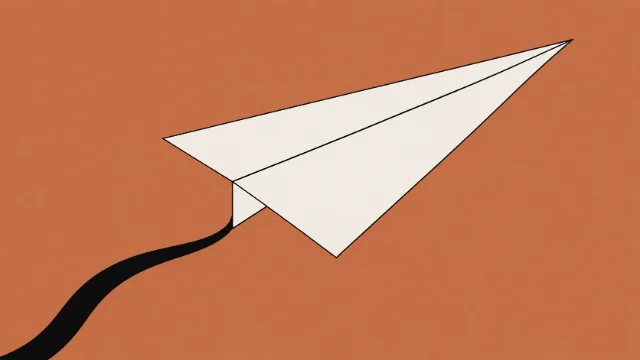
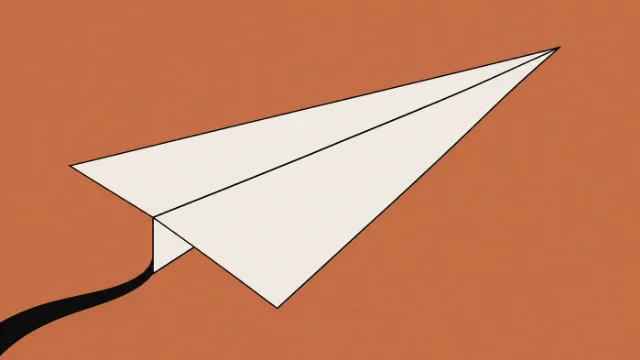
The paper dart is cropped closer, from the original rather than the card
The framing the owner sent back for card 04, recovered from the 1672x941
source the same way 03's was in #156.

He sent a 536x301 PNG. It correlates against the shipped card at 0.9998 at
x=104.5 y=0 w=535 h=301 -- a 1:1 crop of the card rather than a resample,
which is why the number is that high and why the file itself is not soft.
The problem is the slot: 535px into a 640px slot is a 1.2x UPSCALE, and
the card is the one picture in the row that would then have been enlarged
rather than reduced. Mapped to the source the same rectangle is
273,0,1398,786, and cutting it there is a 2.18x downsample.

Brightness stays 1, the set's default for this hand, checked rather than
assumed: the crop's corners land on (197,110,69) and (197,111,69) against
the card it came from at (197,111,69) and (197,111,70). A tighter crop
samples a different part of the ground, so it is worth the measurement
even when the answer is the default.

The dart now crosses the whole frame -- nose near the upper right corner,
tail near the left edge, the flight path leaving by the bottom left corner
rather than the bottom edge -- so the prompt's "sitting just inside it,
with a band at each side" and the alt both move with it.

The registry now carries the general form, because this is twice:
a drawing that comes back at or under 640x360 is a crop of a shipped card,
and the shipped card is not the thing to cut. Correlate for the rectangle,
[…]

diff --git a/index.html b/index.html
@@ -596,7 +596,7 @@
           </a>
           <a class="engagement-card reveal" href="prototype/dispatch-cockpit.html">
             <span class="engagement-num" aria-hidden="true">04</span>
-            <div class="engagement-figure"><img src="img/engagement/04-ai.webp?v=9" width="640" height="360" alt="A large cream paper dart climbing across a full terracotta field with a band of field above and beside it, one solid black line behind it curving up from the lower left and off the bottom of the frame" loading="lazy" decoding="async" /></div>
+            <div class="engagement-figure"><img src="img/engagement/04-ai.webp?v=10" width="640" height="360" alt="A large cream paper dart climbing across a full terracotta field, its nose reaching close to the upper right corner and its tail near the left edge, one solid black line behind it curving down from the tail and off the bottom left corner of the frame" loading="lazy" decoding="async" /></div>
             <h3>Carry the direction into something that works</h3>
             <ul class="engagement-points">
               <li>A working prototype in real code, in days</li>
